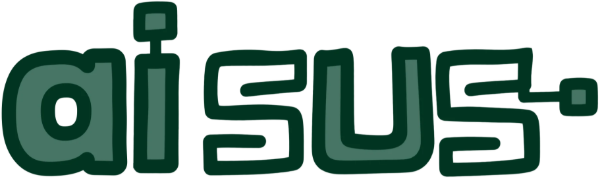
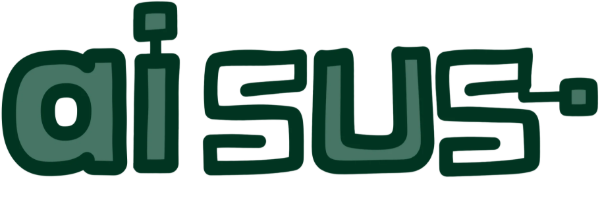
report: cut or reorder 54 ', and' sentences, and lift the wordmark onto the baseline
Where the clause after ', and' added nothing, it goes. Where it carried the
point, it now leads. The wordmark gains transparent space below it as tall
as the dot on its i.

diff --git a/.report/index.html b/.report/index.html
@@ -40,7 +40,7 @@
       /* The wordmark stands in for the word aisus, at the height of the text around it. */
       img.wordmark {
         display: inline;
-        height: 1.1em;
+        height: 1.35em;
         width: auto;
         margin: 0;
         border: 0;
@@ -497,31 +497,25 @@
         <p><img class="wordmark" src="figures/aisus-wordmark.png" alt="aisus"> turns a codebase into a picture a person can hold in their head. A developer sees the 
             architecture of a repository as a powerful visual abstraction and
           can check every claim the picture makes against the code itself.</p>
-        <p>The developer's own coding agent draws the map, and <img class="wordmark" src="figures/aisus-wordmark.png" alt="aisus"> holds the agent to the truth.
-          Every box must cite real lines inside the repository, or <img class="wordmark" src="figures/aisus-wordmark.png" alt="aisus"> sends the map back. When
-          the code changes, <img class="wordmark" src="figures/aisus-wordmark.png" alt="aisus"> compares it with fingerprints stored in the map, on the
-          developer’s own machine, and marks every part of the picture the code has left behind. The
-          check costs no tokens, and <img class="wordmark" src="figures/aisus-wordmark.png" alt="aisus"> itself never sends code anywhere.  </p>
+        <p><img class="wordmark" src="figures/aisus-wordmark.png" alt="aisus"> holds the developer's own coding agent to the truth while it draws the map.
+          Every box must cite real lines inside the repository, or <img class="wordmark" src="figures/aisus-wordmark.png" alt="aisus"> sends the map back. When the code changes, <img class="wordmark" src="figures/aisus-wordmark.png" alt="aisus"> marks every part of the picture the code has left behind. It compares the code with fingerprints stored in the map, on the developer's own machine. <img class="wordmark" src="figures/aisus-wordmark.png" alt="aisus"> itself never sends code anywhere. The check costs no tokens.  </p>
         <p>The map belongs to no single tool. It opens in VS Code, Cursor and IntelliJ IDEA, as a
           page in any browser, on pull requests through a GitHub Action and on the web at aisus.dev.
-          Any coding agent can draw it. Claude Code, Codex and Devin run <img class="wordmark" src="figures/aisus-wordmark.png" alt="aisus">'s skills directly,
-          and GitHub Copilot, Gemini CLI and OpenCode take a copied prompt. Even the rendering is
+          Any coding agent can draw it. Claude Code, Codex and Devin run <img class="wordmark" src="figures/aisus-wordmark.png" alt="aisus">'s skills directly. GitHub Copilot, Gemini CLI and OpenCode take a copied prompt. Even the rendering is
           open. Anyone can draw the map their own way (the diagrams are in JSON).</p>
 
         <h2 id="s1-3">1.3 The symptom</h2>
         <p>Software is now written faster than anyone understands it, a gap well-known
           <strong>comprehension debt</strong>. On the best of days, its the existential crisis
-          shared by millions of SWEs world wide. On the worst, comprehension debt rears its ugly
-          head when it arrives as an outage, and the team pays it by learning the system under
-          pressure.</p>
+          shared by millions of SWEs world wide. On the worst, comprehension debt rears its ugly head as an outage.</p>
         <p>Agents do not close the gap. An agent reads a few files at a time, then forgets about the
           system at the end of the session. It can explain one function well and still miss how two
           services depend on each other.</p>
         <p>We can let Microsoft's recent outage explain that point for us. </p>
         <p>November's Patch Tuesday fixed 1,094 vulnerabilities. Microsoft credited AI for the number. Two days later Exchange Online went down around the world for 23 hours and 50 minutes.</p>
-        <p>Microsoft's preliminary report traces the outage to a change shipped in July. Under load, the change made gateway servers wait on each other's locks until they ran out of CPU and memory. The defect was worse on newer machines with more cores. Microsoft's load tests ran on weaker machines with fewer cores, and the defect passed them.</p>
+        <p>Microsoft's preliminary report traces the outage to a change shipped in July. Under load, the change made gateway servers wait on each other's locks until they ran out of CPU and memory. The defect was worse on newer machines with more cores. The defect passed Microsoft's load tests, which ran on weaker machines with fewer cores.</p>
         <p>A routine failover then moved Teams traffic onto the gateway that Exchange uses, while 14% of its servers were already down. More than 80% of the gateway stopped responding. The boundaries meant to hold a failure inside one region did not hold. The change was too old to roll back. Servers that came back up were flooded by waiting traffic and failed again.</p>
-        <p>Microsoft says AI did not cause the outage, and we do not claim it did directly. But
+        <p>Microsoft says AI did not cause the outage. We do not claim it did directly. But
           consider that in the good ol' days, an engineer who knew the gateway inside out would have
           asked how a lock behaves on a machine with more cores. That engineer would have load
           tested on the machines that run in production. Even in top shops like Microsoft, that engineer 
@@ -554,7 +548,7 @@
           <figcaption>Figure 2.1 The demo reel on eraser.io, captured on 18 November 2026.</figcaption>
         </figure>
 
-        <p><strong>How it works.</strong> Eraser serves system architects. It draws diagrams from cloud accounts, code, configuration databases and spreadsheets. To map code, a team connects a GitHub, GitLab or Azure DevOps repository and prompts for a diagram, and Eraser scans the files on its own servers. Its Eraserbot watches chosen files and draws the diagram again when a pull request touches them.</p>
+        <p><strong>How it works.</strong> Eraser serves system architects. It draws diagrams from cloud accounts, code, configuration databases and spreadsheets. Eraser scans a team's code on its own servers. To map it, a team connects a GitHub, GitLab or Azure DevOps repository and prompts for a diagram. Its Eraserbot watches chosen files and draws the diagram again when a pull request touches them.</p>
         <p><strong>Business model.</strong> Eraser sells seats, with AI usage metered in credits. The free plan has 3 files and 3 AI credits. Business costs $45 per member a month on an annual plan, with 100 credits and one connected repository. Every new AI drawing, including each Eraserbot update, spends credits, Revenue grows with both team size and AI use.</p>
         <p><strong>Traction.</strong> Eraser was founded in 2020. By May 2024 it had raised $6 million in venture funding, its AI had generated more than one million diagrams, and it reported tenfold growth since adding AI features. Its website shows Microsoft, Amazon, Visa, Gartner, KPMG and Kakao among its customers.</p>
 
@@ -563,8 +557,8 @@
           <img src="figures/icepanel-demo.gif" alt="IcePanel's demo video, in which an architecture diagram builds up, the API service is selected to show its connections and details, and the view zooms out to the whole model.">
           <figcaption>Figure 2.2 The demo video on icepanel.io, captured on 18 November 2026.</figcaption>
         </figure>
-        <p><strong>How it works.</strong> IcePanel serves software architects and engineering organisations, and also non-tech teams who need to understand a system. It is a collaborative tool for C4 models, which describe a system at the levels of context, container and component. People build the model by hand, and every diagram draws from that one model. Since October 2026 a model can also be drawn through a plugin for Claude Code and Copilot.</p>
-        <p><strong>Business model.</strong> IcePanel charges per editor, and viewers are always free. One paying architect can share the model with a whole organisation. The free plan has one editor and 100 objects. Growth costs $40 per editor a month with MCP server support. Enterprise starts at 50 editors with single-tenant hosting. After Y Combinator the founders chose not to raise further capital, and the company grows on its revenue.</p>
+        <p><strong>How it works.</strong> IcePanel serves software architects and engineering organisations. It is a collaborative tool for C4 models, which describe a system at the levels of context, container and component. Every diagram draws from one model, which people build by hand. Since October 2026 a model can also be drawn through a plugin for Claude Code and Copilot.</p>
+        <p><strong>Business model.</strong> IcePanel charges per editor. Viewers are always free. One paying architect can share the model with a whole organisation. The free plan has one editor and 100 objects. Growth costs $40 per editor a month with MCP server support. Enterprise starts at 50 editors with single-tenant hosting. After Y Combinator, the founders chose to grow on revenue instead of raising more capital.</p>
         <p><strong>Traction.</strong> Two founders launched IcePanel in March 2021 and won their first paying customer, a Fortune 500 company, five months later. It joined Y Combinator's Winter 2023 batch. Its annual recurring revenue reached $2 million in January 2025 and $3.5 million by July 2026, with 900 customers. Its team has nine people. Its customer page lists Cisco, BMW, Alphabet and Shift4, among others.</p>
 
         <h2 id="s2-3">2.3 CodeBoarding</h2>
@@ -572,26 +566,26 @@
           <img src="figures/codeboarding-pr.png" alt="CodeBoarding's review of a pull request in its eShop example. A panel on the left lists a medium merge risk and two new dependencies, and the map on the right shows the four components the pull request modified.">
           <figcaption>Figure 2.3 A pull request review on CodeBoarding's web platform, captured on 18 November 2026.</figcaption>
         </figure>
-        <p><strong>How it works.</strong> CodeBoarding serves developers and code reviewers, and is the closest competitor to <img class="wordmark" src="figures/aisus-wordmark.png" alt="aisus">. It draws interactive architecture maps of a codebase and reviews pull requests as changes to those maps. Its engine runs language servers to find symbols and call graphs in 9 languages, then asks a language model to name and describe the components.</p>
-        <p><strong>Business model.</strong> CodeBoarding follows an open core model. The engine is open source under the MIT licence and free to use. Because users bring their own model key, CodeBoarding carries little of the model cost itself. Pro costs $9.99 a month and offers unmetered use, faster generation and health monitoring, and teams are sold through demos.</p>
-        <p><strong>Traction.</strong> The engine's repository was created in April 2025. On 18 November 2026 it had 2,685 stars and 235 forks, and the VS Code extension had 1,900 installs. CodeBoarding also publishes many example maps of public repositories. Its company page lists a team of three.</p>
+        <p><strong>How it works.</strong> CodeBoarding is the closest competitor to <img class="wordmark" src="figures/aisus-wordmark.png" alt="aisus">. It serves developers and code reviewers. It draws interactive architecture maps of a codebase and reviews pull requests as changes to those maps. Its engine runs language servers to find symbols and call graphs in 9 languages, then asks a language model to name and describe the components.</p>
+        <p><strong>Business model.</strong> CodeBoarding follows an open core model. The engine is open source under the MIT licence and free to use. Because users bring their own model key, CodeBoarding carries little of the model cost itself. Pro costs $9.99 a month and offers unmetered use, faster generation and health monitoring.</p>
+        <p><strong>Traction.</strong> The engine's repository was created in April 2025. On 18 November 2026 its VS Code extension had 1,900 installs. The engine had 2,685 stars and 235 forks. CodeBoarding also publishes many example maps of public repositories. Its company page lists a team of three.</p>
 
         <h2 id="s2-4">2.4 What makes <img class="wordmark" src="figures/aisus-wordmark.png" alt="aisus"> different</h2>
 
         <h3>Integrated viewing experience</h3>
-        <p>Eraser and IcePanel are web platforms, and CodeBoarding's explore and review modes favour its web app. A diagram in a browser tab sits far from the code it describes. The developer switches windows to check what a box means, and loses their place in both. <img class="wordmark" src="figures/aisus-wordmark.png" alt="aisus"> opens the map in a panel beside the code, in VS Code, Cursor or whichever editor the developer already uses. </p>
+        <p>Eraser and IcePanel are web platforms. CodeBoarding's explore and review modes favour its web app too. A diagram in a browser tab sits far from the code it describes. Checking what a box means costs the developer a window switch and their place in both. <img class="wordmark" src="figures/aisus-wordmark.png" alt="aisus"> opens the map in a panel beside the code, in VS Code, Cursor or whichever editor the developer already uses. </p>
 
         <h3>Visualising plans with diagrams</h3>
-        <p>Developers now vibe code. They happily accept long plans written in plain text. When a plan grows long, it is hard to picture which parts of the system it touches, or what it might break by accident. <img class="wordmark" src="figures/aisus-wordmark.png" alt="aisus">'s plan skill turns a text spec into a change diagram based on the current system. The developer sees the reach and the risks of a change before any code is written, and can correct the plan while that is still cheap.</p>
+        <p>Developers now vibe code. They happily accept long plans written in plain text. When a plan grows long, it is hard to picture which parts of the system it touches, or what it might break by accident. <img class="wordmark" src="figures/aisus-wordmark.png" alt="aisus">'s plan skill turns a text spec into a change diagram based on the current system. The developer can correct a plan while it is still cheap, because they see its reach and risks before any code is written.</p>
 
         <h3>An index for agents</h3>
         <p>The map lists each part of the system with the files and lines that implement it. An agent that reads it first can go straight to the code a task touches, which saves exploration time and tokens on every task.</p>
-        <p><img class="wordmark" src="figures/aisus-wordmark.png" alt="aisus"> already writes the map into AGENTS.md and CLAUDE.md, the files coding agents read at the start of a session, and Ask answers questions from it. Because <img class="wordmark" src="figures/aisus-wordmark.png" alt="aisus"> knows which boxes are fresh, it can tell the agent which entries to trust. The competitors' MCP servers give agents a diagram or a model without that signal. Their diagrams drift from the code unless someone maintains both.</p>
+        <p><img class="wordmark" src="figures/aisus-wordmark.png" alt="aisus"> already writes the map into AGENTS.md and CLAUDE.md, the files coding agents read at the start of a session. Because <img class="wordmark" src="figures/aisus-wordmark.png" alt="aisus"> knows which boxes are fresh, it can tell the agent which entries to trust. The competitors' MCP servers give agents a diagram or a model without that signal. Their diagrams drift from the code unless someone maintains both.</p>
 
         <h2 id="s2-5">2.5 Where <img class="wordmark" src="figures/aisus-wordmark.png" alt="aisus"> falls short</h2>
 
         <h3>Grounding</h3>
-        <p>CodeBoarding's relationships come from static analysis, which no language model can invent. <img class="wordmark" src="figures/aisus-wordmark.png" alt="aisus">'s come from an agent and are checked against evidence rules, and correct citations do not guarantee correct groupings. Pilot users raised map accuracy as a concern in Progress Report 2. A benchmark of map accuracy is future work, and it would give the tool more credibility.</p>
+        <p>CodeBoarding's relationships come from static analysis, which no language model can invent. <img class="wordmark" src="figures/aisus-wordmark.png" alt="aisus">'s come from an agent. Evidence rules check the citations, but correct citations do not guarantee correct groupings. Pilot users raised map accuracy as a concern in Progress Report 2. A benchmark of map accuracy, still future work, would give the tool more credibility.</p>
 
         <h3>Breadth</h3>
         <p>Eraser and IcePanel serve audiences and diagram types that <img class="wordmark" src="figures/aisus-wordmark.png" alt="aisus"> deliberately leaves out, such as presentation diagrams, business processes and future-state designs. We accept that. We would rather focus on developers, the audience we know best.</p>
@@ -599,7 +593,7 @@
         <h2 id="s2-6">2.6 Threats</h2>
 
         <h3>Convergence</h3>
-        <p>The incumbents are adopting the idea of generating diagrams with the user's own agent. IcePanel's plugin of 22 October 2026 and Eraser's MCP server both show it. These generated diagrams are rarely versioned, and they can drift from the code. That gap is where <img class="wordmark" src="figures/aisus-wordmark.png" alt="aisus"> fits.</p>
+        <p>The incumbents are adopting the idea of generating diagrams with the user's own agent. IcePanel's plugin of 22 October 2026 and Eraser's MCP server both show it. These generated diagrams drift from the code, with no version history to show it. That gap is where <img class="wordmark" src="figures/aisus-wordmark.png" alt="aisus"> fits.</p>
 
         <h3>Agents' own indexes</h3>
         <p>Agent tools also build their own repository indexes and memory files. If those summaries become good enough, the agent half of the pitch weakens and the developer half has to carry it.</p>
@@ -636,13 +630,13 @@
             <tr><td class="status-late"><strong>Demo video</strong><br>Show users the features of <img class="wordmark" src="figures/aisus-wordmark.png" alt="aisus">.</td><td>Video 1, a <a href="https://www.youtube.com/watch?v=LzG8YSjc4ss">tutorial on generating diagrams</a>, was too dry to use.<br>Video 2 onboarded the interviewees and ran at the class demo.<br>Video 3, the <a href="https://www.youtube.com/watch?v=_wKfk5baTSU">STePS promotional video</a>, won Best Video and Marketing.</td></tr>
             <tr><td class="status-hit"><strong>Developer outreach</strong><br>Understanding users' needs</td><td>We contacted six developers and interviewed them about <img class="wordmark" src="figures/aisus-wordmark.png" alt="aisus">, as section 6 describes.<br>A CS2103 evaluation pilot was dropped, because the CS2103 students had already finished their projects.</td></tr>
             <tr><td class="status-missed"><strong>IntelliJ IDEA plugin</strong><br>Prepared for the CS2103 cohort.</td><td>The plugin generates maps, opens cited code and reviews changes. It does less than the VS Code extension.</td></tr>
-            <tr><td class="status-missed"><strong>Reduce LLM credits</strong><br>Reduce cost while maintaining accuracy.</td><td>It is a hard problem. An agent that reads less can miss the code a box should cite, and finding the balance needs deeper research than the schedule allowed.</td></tr>
+            <tr><td class="status-missed"><strong>Reduce LLM credits</strong><br>Reduce cost while maintaining accuracy.</td><td>It is a hard problem. An agent that reads less can miss the code a box should cite. Finding the balance needs deeper research than the schedule allowed.</td></tr>
             <tr><td class="status-hit"><strong>Progress Report 2</strong><br>Competitor analysis; Project iteration feedback; Marketing plans</td><td>We explored cloud features for collaboration, then shifted our focus to marketing and distribution across several channels.</td></tr>
             <tr><td class="status-missed"><strong>Security scan</strong><br>Prevent code leakage and unintended code execution.</td><td>No security tests ran, because the team lacked the security expertise. The safety rules built into v0.3 keep writes inside the repository, let agents run only pre-approved commands, and cover prompt injection and secrets.</td></tr>
             <tr><td class="status-hit"><strong>Class demo</strong><br>Prepare the demo and pitch.</td><td>v0.3.3 released.</td></tr>
             <tr><td class="status-hit"><strong>Marketing poster design</strong><br>Project infographics.</td><td>We designed flyers and put them up around SoC.</td></tr>
-            <tr><td class="status-hit"><strong>Pilot fixes</strong><br>Resolve critical usability issues raised by the users.</td><td>Fixes landed through the last two weeks, and v0.3.4 shipped.</td></tr>
-            <tr><td class="status-hit"><strong>STePS preparation</strong></td><td><img class="wordmark" src="figures/aisus-wordmark.png" alt="aisus"> presented its poster and its video at STePS, and won Best Video and Marketing.</td></tr>
+            <tr><td class="status-hit"><strong>Pilot fixes</strong><br>Resolve critical usability issues raised by the users.</td><td>v0.3.4 shipped after two weeks of fixes.</td></tr>
+            <tr><td class="status-hit"><strong>STePS preparation</strong></td><td><img class="wordmark" src="figures/aisus-wordmark.png" alt="aisus"> won Best Video and Marketing at STePS, with its poster and its video.</td></tr>
             <tr><td class="status-hit"><strong>Final report</strong></td><td>Submit the final report before Nov 22.</td></tr>
           </tbody>
         </table>
@@ -659,7 +653,7 @@
           everything: the extension, the cloud, the server and the docs. They push <img class="wordmark" src="figures/aisus-wordmark.png" alt="aisus"> as far as
           they can with tunnel vision, write a handover, and pass it on. The next person starts from
           that handover and never waits on anyone. No one owns a module. Each of us answers for the
-          whole product. Chapter 8 explains why the workflow works, and how <img class="wordmark" src="figures/aisus-wordmark.png" alt="aisus"> diagrams carry each handover.</p>
+          whole product. Chapter 8 explains why the workflow works and how <img class="wordmark" src="figures/aisus-wordmark.png" alt="aisus"> diagrams carry each handover.</p>
 
         <h2 id="s4-2">4.2 The shifts</h2>
         <table>
@@ -698,7 +692,7 @@
 <section class="report-section" id="design">
         <h1 id="s5">5 Application design</h1>
         <p><img class="wordmark" src="figures/aisus-wordmark.png" alt="aisus"> keeps its core libraries apart from the platforms that show a map. The core libraries are the map model, the layout manager and the agent skills. Each platform adds only a thin layer on top of them, made of a panel that starts runs and a diagram viewer that draws the result. Figure 5 shows this split for the VS Code extension and the IntelliJ plugin.</p>
-        <p>The split lets <img class="wordmark" src="figures/aisus-wordmark.png" alt="aisus"> reach a new platform quickly. The IntelliJ plugin hosts the same diagram viewer as the VS Code extension, inside the IDE's built-in browser, and both rely on the same core libraries. A new platform needs its own panel and a place for the viewer, and the core logic stays as it is.</p>
+        <p>The split lets <img class="wordmark" src="figures/aisus-wordmark.png" alt="aisus"> reach a new platform quickly. The IntelliJ plugin and the VS Code extension share the same core libraries and diagram viewer. The plugin hosts the viewer inside the IDE's built-in browser. The core logic stays as it is. A new platform needs only its own panel and a place for the viewer.</p>
         <p>The split also keeps the agent skills independent of how a map is drawn. A skill has one job, which is to produce a JSON document in the map format described in <a href="#s5-1">section 5.1</a>. The map model checks that document before it is published. Any viewer that reads the map format can then draw it, on whichever platform it runs.</p>
         <figure>
           <a href="figures/design/components.html"><img src="figures/design/components.svg" alt="Component diagram of the aisus modules"></a>
@@ -707,15 +701,15 @@
 
         <h2 id="s5-1">5.1 Data model</h2>
         <p>The map format treats a diagram as a set of claims about the code. A box claims that a part of the system exists, an arrow claims that one part relies on another, and a group claims that some parts belong together. A map is only as useful as these claims are true. The format therefore ties every box to evidence, as Figure 5.1 shows from left to right.</p>
-        <p>That evidence is the citation. A box must point to the lines of code that make it real, and a box that points to nothing is refused. A reader never has to take the diagram on trust. They can open any box and read the code it stands for, which turns the map from a picture into an index of the codebase.</p>
+        <p>That evidence is the citation. A box must point to the lines of code that make it real. A reader never has to take the diagram on trust. They can open any box and read the code it stands for, which turns the map from a picture into an index of the codebase.</p>
         <figure class="wide">
           <a href="figures/design/map-format.html"><img src="figures/design/map-format.svg" alt="Diagram of a map's boxes, arrows, groups and citations, the fingerprint saved for each citation, and the freshness worked out from it"></a>
           <figcaption>Figure 5.1 The map format.</figcaption>
         </figure>
 
         <h2 id="s5-2">5.2 Key flows</h2>
-        <p>Two workflows carry most of what <img class="wordmark" src="figures/aisus-wordmark.png" alt="aisus"> does. The first, in Figure 5.2.1, turns a request into a map. A developer asks for a map, and a coding agent studies the repository and drafts one. <img class="wordmark" src="figures/aisus-wordmark.png" alt="aisus"> does not take the draft on trust. It checks the draft against the map format and against the code it cites, and hands it back with every problem it finds until the draft passes. These checks are plain code rather than a model's judgement. Hence, a map that passes is certain to render, and every box in it points to code that exists. Only such a map is kept and shown to the developer.</p>
-        <p>The second workflow, in Figure 5.2.2, shows what has changed. The developer picks an earlier map of the same code, and <img class="wordmark" src="figures/aisus-wordmark.png" alt="aisus"> compares the two. It works out which parts of the system appeared, changed or disappeared in between, and marks them on the map on screen. The comparison is plain code too, with no agent involved. A reviewer sees how a change moves the architecture, rather than piecing it together from the files it touched. Together the two workflows let a team draw a map once and then follow how its architecture moves over time.</p>
+        <p>Two workflows carry most of what <img class="wordmark" src="figures/aisus-wordmark.png" alt="aisus"> does. The first, in Figure 5.2.1, turns a request into a map. When a developer asks for a map, a coding agent studies the repository and drafts one. <img class="wordmark" src="figures/aisus-wordmark.png" alt="aisus"> does not take the draft on trust. Until the draft passes, <img class="wordmark" src="figures/aisus-wordmark.png" alt="aisus"> hands it back with every problem it finds against the map format and the code it cites. These checks are plain code rather than a model's judgement. Hence every box in a passing map points to code that exists. The map is also certain to render. Only such a map is kept and shown to the developer.</p>
+        <p>The second workflow, in Figure 5.2.2, shows what has changed. <img class="wordmark" src="figures/aisus-wordmark.png" alt="aisus"> compares the map with an earlier one of the same code, which the developer picks. It marks which parts of the system appeared, changed or disappeared in between. The comparison is plain code too, with no agent involved. A reviewer sees how a change moves the architecture, rather than piecing it together from the files it touched. Together the two workflows let a team draw a map once and then follow how its architecture moves over time.</p>
         <div class="figure-row">
           <figure>
             <a href="figures/design/generate-flow.html"><img src="figures/design/generate-flow.svg" alt="Sequence diagram of generating a map"></a>
@@ -728,9 +722,9 @@
         </div>
 
         <h2 id="s5-3">5.3 Deployment</h2>
-        <p>Figure 5.3 shows where each part of <img class="wordmark" src="figures/aisus-wordmark.png" alt="aisus"> runs. Nearly all of it runs on the developer's own computer. The extension, the coding agent and the maps sit beside the code, and drawing or comparing a map needs no <img class="wordmark" src="figures/aisus-wordmark.png" alt="aisus"> server. A developer who never shares a map can use <img class="wordmark" src="figures/aisus-wordmark.png" alt="aisus"> without an <img class="wordmark" src="figures/aisus-wordmark.png" alt="aisus"> account.</p>
-        <p>Only two paths lead to <img class="wordmark" src="figures/aisus-wordmark.png" alt="aisus"> cloud, and a person chooses each one. A developer can share a map with the team, and a team can let the pull request check send its results. What travels is the map and its findings. The code stays in the repository, and the check comments on the pull request whether or not anything is sent.</p>
-        <p>The cloud itself is one small server. It hosts the website where a team reads shared maps, and it keeps those maps in its database. GitHub tells it who someone is and which repositories they may see, and Stripe takes the payments. <img class="wordmark" src="figures/aisus-wordmark.png" alt="aisus"> therefore holds no passwords and no card details. Running a single server keeps the cost of the service low.</p>
+        <p>Figure 5.3 shows where each part of <img class="wordmark" src="figures/aisus-wordmark.png" alt="aisus"> runs. Nearly all of it runs on the developer's own computer. Drawing or comparing a map needs no <img class="wordmark" src="figures/aisus-wordmark.png" alt="aisus"> server. The extension, the coding agent and the maps all sit beside the code. A developer who never shares a map can use <img class="wordmark" src="figures/aisus-wordmark.png" alt="aisus"> without an <img class="wordmark" src="figures/aisus-wordmark.png" alt="aisus"> account.</p>
+        <p>Only two paths lead to <img class="wordmark" src="figures/aisus-wordmark.png" alt="aisus"> cloud, each chosen by a person. A developer can share a map with the team. A team can let the pull request check send its results. What travels is the map and its findings. The code stays in the repository.</p>
+        <p>The cloud itself is one small server. It hosts the website where a team reads shared maps, and the database that keeps them. <img class="wordmark" src="figures/aisus-wordmark.png" alt="aisus"> holds no passwords and no card details. GitHub handles sign-in and repository access. Stripe takes the payments. Running a single server keeps the cost of the service low.</p>
         <figure>
           <a href="figures/design/deployment.html"><img src="figures/design/deployment.svg" alt="Infrastructure diagram of the developer's computer, GitHub, Stripe and the aisus cloud server"></a>
           <figcaption>Figure 5.3 The <img class="wordmark" src="figures/aisus-wordmark.png" alt="aisus"> infrastructure.</figcaption>
@@ -817,8 +811,7 @@
 
         <h2 id="s6-3">6.3 Evidence</h2>
         <p>On 9 November a teardown script deleted our server and its only disk. Umami's history
-          went with it. AWS kept the deleted server's network traffic, and section 6.4 estimates the
-          lost visits from it.</p>
+          went with it. Section 6.4 estimates the lost visits from the network traffic AWS kept.</p>
         <figure class="wide">
           <img src="figures/6-1-umami.png" alt="Umami's dashboard for aisus.dev over the last 30 days, with 66 visitors, 92 visits and 155 views, all from 9 November onwards.">
           <figcaption>Figure 6.1 Umami for aisus.dev. Its history starts on 9 November, when the server was rebuilt.</figcaption>
@@ -868,8 +861,7 @@
           
           <figcaption id="f62">Figure 6.2 Megabytes aisus.dev sent each day, from AWS CloudWatch. The old server's traffic survived its deletion.</figcaption>
         </figure>
-        <p>Visits turn into installs slowly. Between 330 and 500 people reached the site. GitHub
-          served 68 release files, and the Marketplace served 115. Installing <img class="wordmark" src="figures/aisus-wordmark.png" alt="aisus"> takes one click.
+        <p>Visits turn into installs slowly. Between 330 and 500 people reached the site. GitHub served 68 release files and the Marketplace 115. Installing <img class="wordmark" src="figures/aisus-wordmark.png" alt="aisus"> takes one click.
           Using it needs Node.js, a signed-in Claude Code or Codex, and the user's own tokens. That
           setup is where we expect most people stop. The live demo in section 1.1 skips all
           three.</p>
@@ -908,8 +900,7 @@
         <h2 id="s6-6">6.6 Our peerless marketing</h2>
         <p>We would like to especially highlight that Prof Ben roasted our asses after the second
           progress report for spending too much time building and not enough time marketing. </p>
-        <p>Flyers went up the day after the server launched, and on 26 October the site sent 108 MB,
-          its biggest day on record. The first release was downloaded 29 times while the site served
+        <p>On 26 October, the day after the flyers went up, the site sent 108 MB, its biggest day on record. The first release was downloaded 29 times while the site served
           it.</p>
         <p>Lo and behold, at STePS, <img class="wordmark" src="figures/aisus-wordmark.png" alt="aisus"> won Best Video and Marketing. This is a general award. We
           beat everyone. </p>
@@ -962,7 +953,7 @@
           <p>Similarly, we have not been vomitously marketing this plan to place emphasis on polishing our main feature.</p>
         <figure class="wide">
           <img src="figures/7-3-bug-hunt-planted.webp" alt="A Bug hunt in VS Code. The agent has written citation-text.ts for step 1 of 3, and the Learning Session panel beside it reads Hunting, with 0 found, 0 fixed and 1 seeded.">
-          <figcaption>Figure 7.3 Step 1 of a Bug hunt. The agent has planted a bug, and the student is hunting for it.</figcaption>
+          <figcaption>Figure 7.3 Step 1 of a Bug hunt. The student hunts for the bug the agent planted.</figcaption>
         </figure>
         <figure class="wide">
           <img src="figures/7-4-bug-hunt-done.webp" alt="The finished Bug hunt. The Learning Session panel reads Done, with 3 found, 3 fixed and a score of 25 on the leaderboard, and the Check my understanding page in the sidebar lists the hunt under Your practice.">
@@ -997,7 +988,7 @@
         </p>
         <figure class="wide">
           <img src="figures/7-5-sakai.png" alt="sakai's map of a notes app. A web app, a notes API, a digest worker and an export tool link to a SQLite store and a mail service. Belts carry flow between blocks, and yellow tags mark properties such as concurrent, atomic, asynchronous and retries 3.">
-          <figcaption>Figure 7.5 A map in sakai. Belts carry flow, and properties such as atomic and asynchronous sit on the blocks and links they belong to.</figcaption>
+          <figcaption>Figure 7.5 A map in sakai. Properties such as atomic and asynchronous sit on the blocks and links they belong to.</figcaption>
         </figure>
         <p>Our team is building sakai right now. </p>
         <p>Lowkey we are genuinely asking whether sakai has startup potential...</p>
@@ -1007,8 +998,7 @@
         <h1 id="s8">8 What we learned</h1>
 
         <h2 id="s8-1">8.1 Chen Dan Quirk Divide and Conquer</h2>
-        <p>Chen Dan Quirk Divide and Conquer is a workflow we pioneered, and <img class="wordmark" src="figures/aisus-wordmark.png" alt="aisus"> is what made it
-          work.</p>
+        <p>We pioneered Chen Dan Quirk Divide and Conquer, a workflow <img class="wordmark" src="figures/aisus-wordmark.png" alt="aisus"> made possible.</p>
         <p>There is some multilayered humour here (which is admittedly only really funny if you are
           a super nerd). The name itself is a play on CDQ Divide and Conquer, an advanced
           algorithmic technique invented by Princeton University Computer Science Professor and IOI
@@ -1027,9 +1017,7 @@
           three people, consensus is hard. One presenter can be read two different ways by the two
           listeners.</p>
         <p>Our shifts are strictly one sender and one receiver, with no distributed consensus to
-          reach. The person on shift works at full speed without worrying about anyone else, and has
-          sufficient time within the shift to prepare a comprehensive presentation of their work to
-          the next person.</p>
+          reach. The person on shift works at full speed without worrying about anyone else. They also have time within the shift to prepare a comprehensive presentation of their work for the next person.</p>
         <figure class="wide">
           <img src="figures/8-2-cdq.png" alt="A sequence map with six participants in a row, chen_0, dan_0, quirk_0, chen_1, dan_1 and quirk_1. Each one is active in turn and passes a communicate message to the next.">
           <figcaption>Figure 8.2 Chen Dan Quirk Divide and Conquer, drawn as an <img class="wordmark" src="figures/aisus-wordmark.png" alt="aisus"> sequence map. Each bar is a shift, and each arrow is a handover.</figcaption>
@@ -1055,11 +1043,8 @@
             <tr><td>Answer keys stay hidden from the student.</td><td>Keys held by the referee script or the extension host, never by the interface.</td></tr>
           </tbody>
         </table>
-        <p>The weakest boundary is the agent. It runs inside a repository it has never seen, and
-          text in that repository can steer it.</p>
-        <p>Pre-approved commands widen that boundary. Claude Code runs a skill's pre-approved
-          commands without a prompt, and a <code>*</code> in a rule matches any arguments. The Bug
-          hunt skill pre-approved its scripts with such a rule, and one script ran its
+        <p>The weakest boundary is the agent. Text in a repository it has never seen can steer it.</p>
+        <p>Pre-approved commands widen that boundary. Claude Code runs a skill's pre-approved commands without a prompt. A <code>*</code> in a rule matches any arguments. The Bug hunt skill pre-approved its scripts with such a rule. One script ran its
           <code>--check-cmd</code> argument as a shell command. Planted text could run any command
           through it.</p>
         <p>The fix removed the argument, narrowed every rule to scripts that only read and write
@@ -1069,16 +1054,14 @@
 
         <h2 id="s8-3">8.3 Skills can carry code</h2>
         <p>An agent skill can carry code as well as instructions.</p>
-        <p>The first <img class="wordmark" src="figures/aisus-wordmark.png" alt="aisus"> skills were markdown alone, and the agent did every step itself. Many of
+        <p>In the first <img class="wordmark" src="figures/aisus-wordmark.png" alt="aisus"> skills, written in markdown alone, the agent did every step itself. Many of
           those steps had one right answer and needed no judgement. Before mapping, a skill records
           the current commit, sizes the repository to cap how many files the agent reads, and finds
           the previous map to build on. Afterwards, it checks the map against its schema and renders
           it to HTML.</p>
         <p>That kind of work is exactly where an agent hallucinates. It sometimes invented a file
           path, skipped a field or produced a map that would not load.</p>
-        <p>Those steps now live in JavaScript that ships with each skill. The agent runs a script
-          wherever a fixed rule decides the result, and spends its effort on the reading and naming
-          that need judgement. The scripts are thus now much less non-deterministic and can be tested
+        <p>Those steps now live in JavaScript that ships with each skill. The agent spends its effort on the reading and naming that need judgement. Wherever a fixed rule decides the result, it runs a script. The scripts are thus now much less non-deterministic and can be tested
           and improved in isolation.</p>
 
         <h2 id="s8-4">8.4 How good we are at marketing</h2>
@@ -1089,9 +1072,7 @@
       <section class="report-section" id="conclusion">
         <h1 id="s9">9 Conclusion and Acknowledgements</h1>
         <p>We set out to answer comprehension debt with a picture: a map of the whole system, where
-          every box opens the code that proves it. Code has become too much for people to write, and
-          we believe the next step after agents is the visual medium. <img class="wordmark" src="figures/aisus-wordmark.png" alt="aisus"> is our first step there,
-          and we gave it everything we had. We have a humble patronage of users who seem to
+          every box opens the code that proves it. Code has become too much for people to write. We believe the next step after agents is the visual medium. <img class="wordmark" src="figures/aisus-wordmark.png" alt="aisus"> is our first step there, and it got everything we had. We have a humble patronage of users who seem to
           agree.</p>
         <p>Thank you to Dr Ben Leong and Dr Soo Yuen Jien for running CS3216, a course that lets
           students build something real. Thank you to our head teaching assistant Phillmont Muktar,
